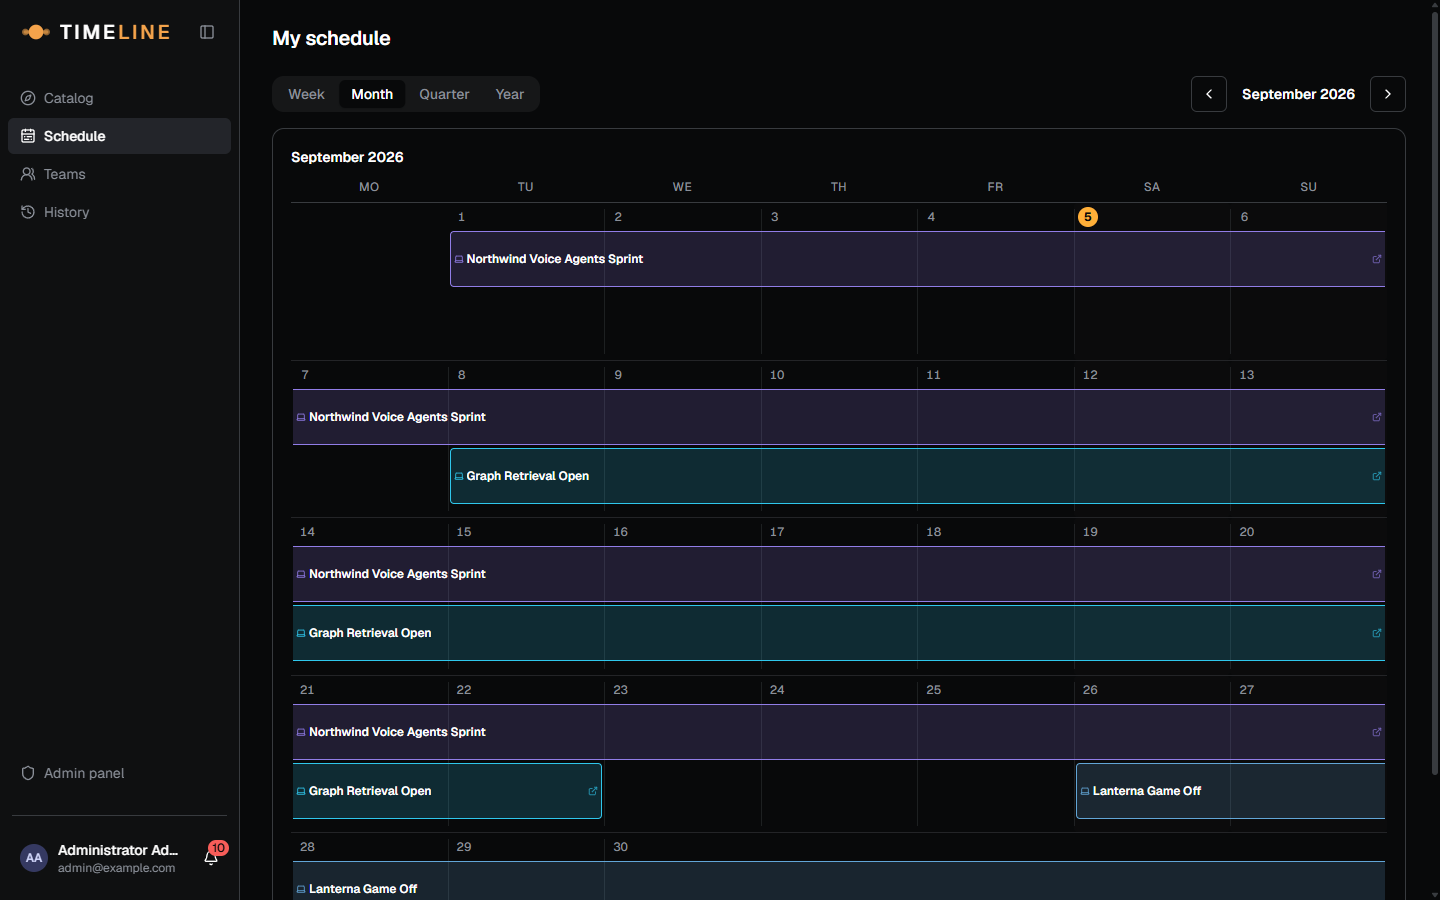
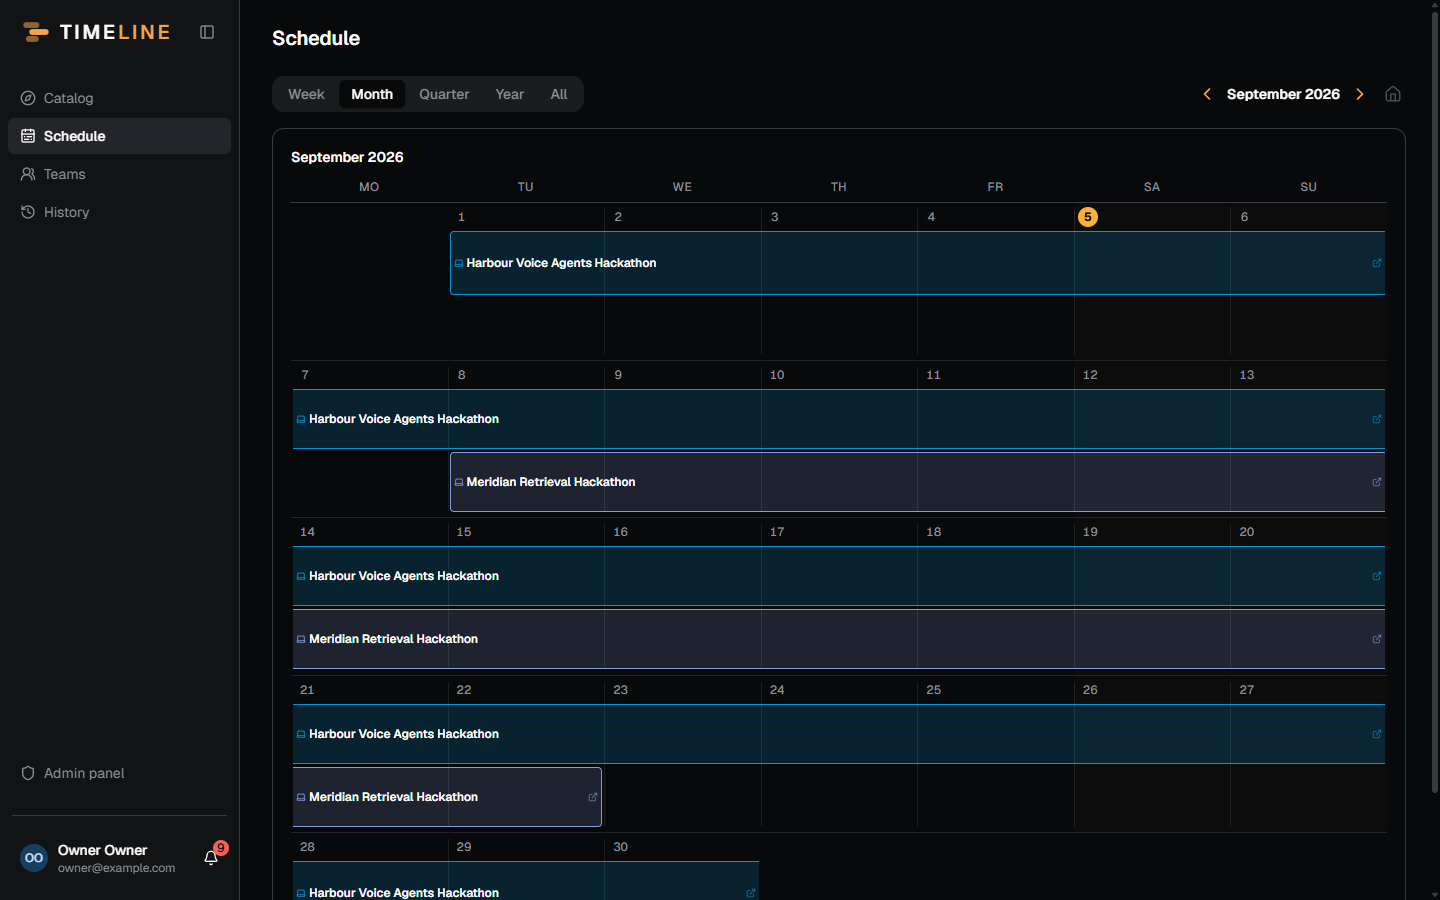
docs: retake the screenshots and correct what the readme claims

diff --git a/README.md b/README.md
@@ -21,8 +21,6 @@
   <a href="#running-it">Running it</a>
   &nbsp;·&nbsp;
   <a href="#how-it-is-built">How it is built</a>
-  &nbsp;·&nbsp;
-  <a href="#invariants">Invariants</a>
 </p>
 
 <p align="center">
@@ -72,8 +70,8 @@ CSV export, and a tick on the ones you are in.
 
 <img src="docs/readme/schedule.png" alt="Personal schedule" width="100%"/>
 
-Your assignments over a week, month, quarter or year. Each event keeps one colour
-so a crowded month still reads.
+Your assignments over a week, month, quarter, year, or the whole timeline at once.
+Each event keeps one colour so a crowded month still reads.
 
 </td>
 </tr>
